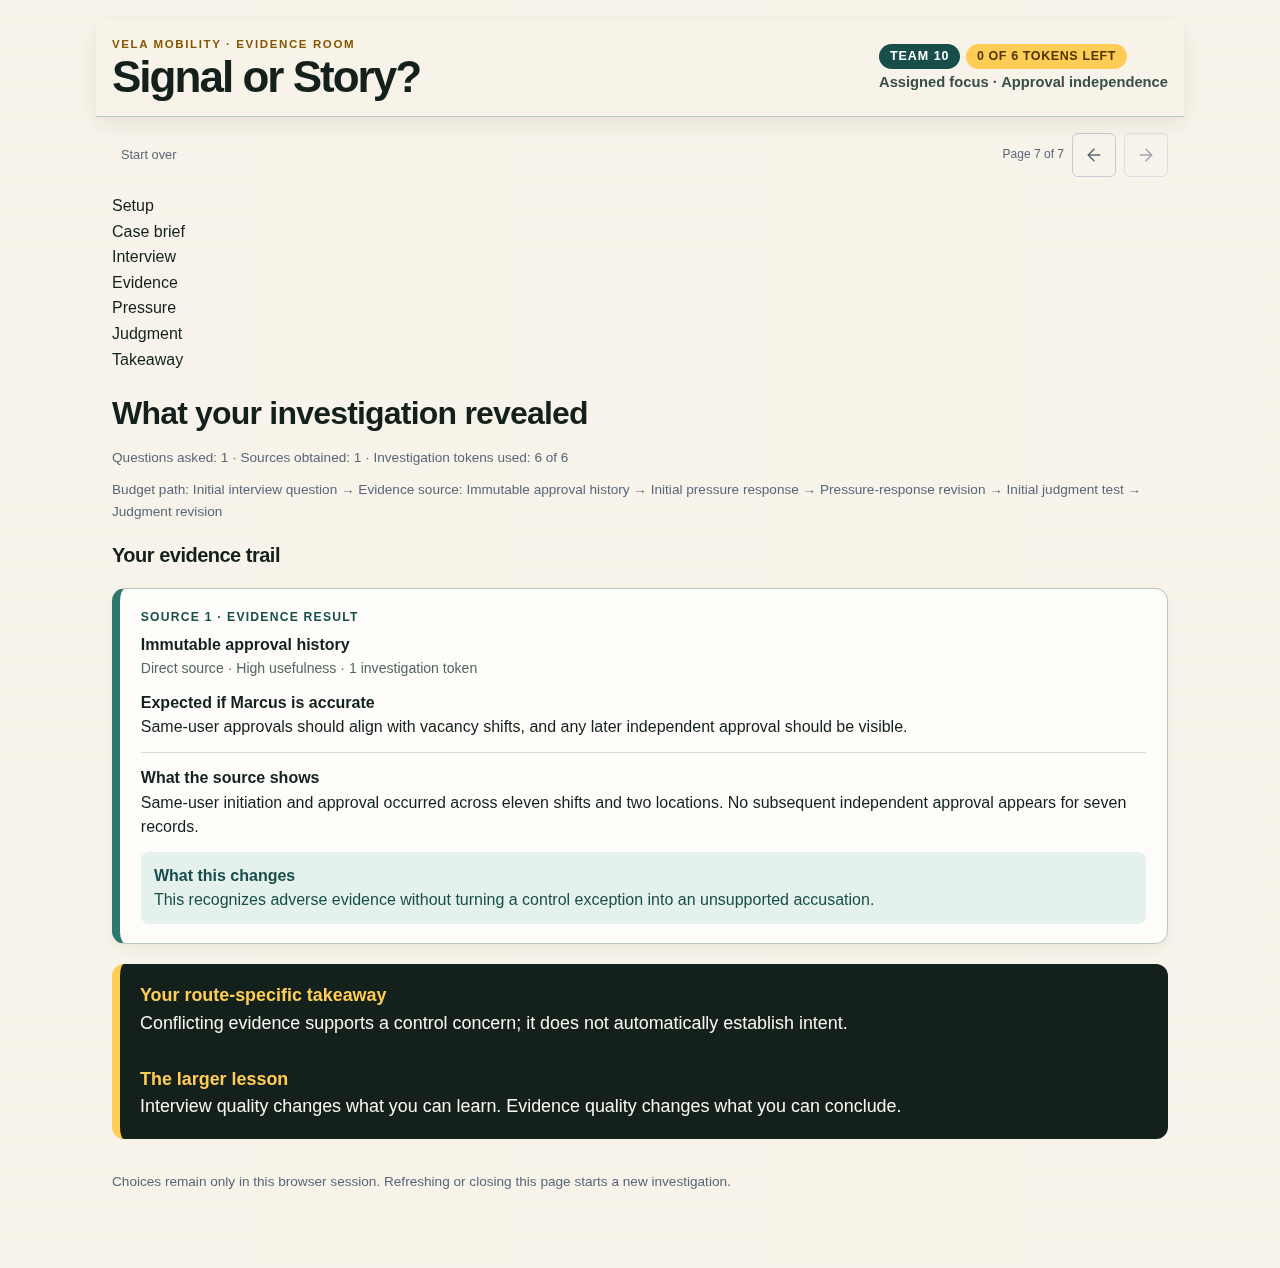
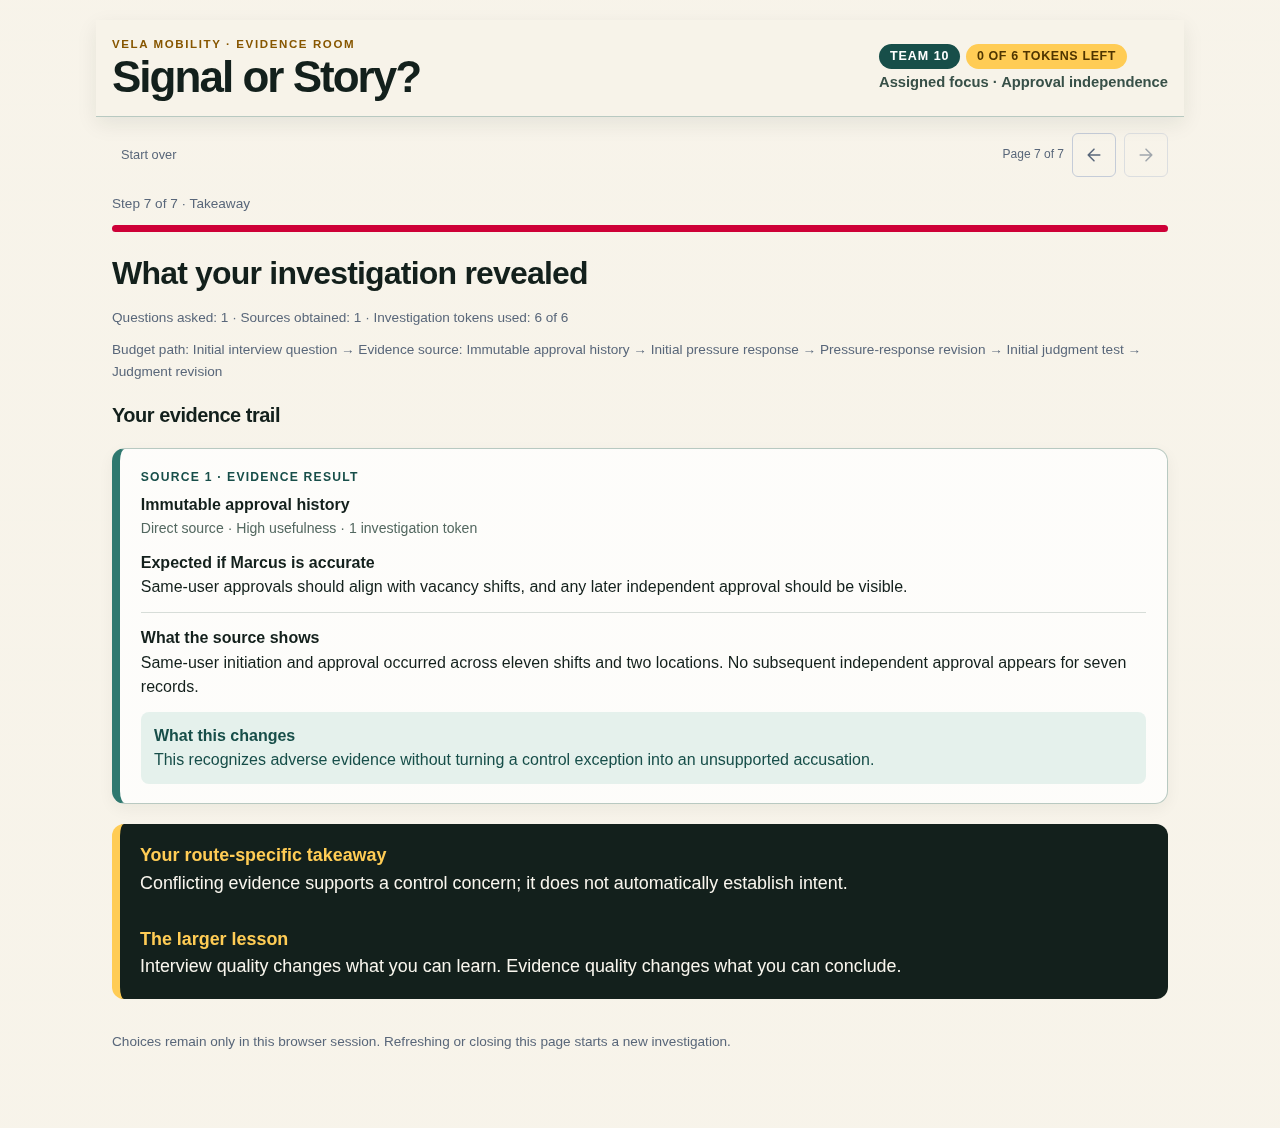
Complete native progress display and verify all twelve browser routes

diff --git a/native/eslint.config.js b/native/eslint.config.js
@@ -1,1 +1,2 @@
-export default [{files:['**/*.js','**/*.mjs'],ignores:['dist/**','vendor/**'],languageOptions:{ecmaVersion:2023,sourceType:'module'},rules:{'no-unused-vars':['error',{args:'none',varsIgnorePattern:'^_'}],'no-unreachable':'error','eqeqeq':'error'}}];
+const globals=Object.fromEntries(['document','window','location','history','crypto','structuredClone','TextEncoder','TextDecoder','CompressionStream','DecompressionStream','Blob','atob','btoa','URL','console','setTimeout','clearTimeout','Worker','self','performance','fetch','requestAnimationFrame','navigator','CustomEvent'].map(k=>[k,'readonly']));
+export default [{files:['**/*.js','**/*.mjs'],ignores:['dist/**','vendor/**'],languageOptions:{ecmaVersion:2023,sourceType:'module',globals},rules:{'no-unused-vars':['error',{args:'none',varsIgnorePattern:'^_'}],'no-undef':'error','no-unreachable':'error','eqeqeq':'error'}}];

diff --git a/native/app.js b/native/app.js
@@ -1,5 +1,5 @@
 import {DATA as C} from './content.js';
-import {Lesson,prepared,interviewEffect,conclusions} from './engine.js';
+import {Lesson,prepared,interviewEffect,impact,conclusions} from './engine.js';
 import {$,el,html,nodes,radio,action,notice,frame,escape,scroll} from './ui.js';
 const labels=['Setup','Case brief','Interview','Evidence','Pressure','Judgment','Takeaway'];let lesson=new Lesson();
 const add=(...items)=>$('lesson').append(...items),card=s=>html(s);

diff --git a/native/tests/browser.py b/native/tests/browser.py
@@ -15,7 +15,7 @@ def walk(page,origin,ready,click,passed,out):
   pick('q0',index=0);click(page,'Back');click(page,'Forward');assert page.locator('input[name=q0]:checked').count()==1;click(page,'Ask the selected question · 1 token');click(page,'Move to evidence')
   pick('e0',index=0);click(page,'Obtain selected source · 1 token');assert page.get_by_text('What the source shows',exact=True).is_visible();click(page,'Move to the pressure decision')
   pick('p0',C['PRESSURE_CHOICES']['close']['label']+' — '+C['PRESSURE_CHOICES']['close']['stance']);click(page,'Commit response · 1 token');click(page,'Revise your response once · 1 token');pick('p1',C['PRESSURE_CHOICES']['narrow']['label']+' — '+C['PRESSURE_CHOICES']['narrow']['stance']);click(page,'Commit revised response · 1 token');assert page.get_by_role('button',name='Revise your response once · 1 token',exact=True).count()==0;click(page,'Keep response and shape the conclusion')
-  pick('j0',index=1);pick('f0',index=1);click(page,'Test this judgment · 1 token');click(page,'Revise your judgment once · 1 token');pick('j1',index=0);pick('f1',index=0);click(page,'Test revised judgment · 1 token');assert page.get_by_role('button',name='Revise your judgment once · 1 token',exact=True).count()==0;click(page,'See what your investigation changed');assert page.get_by_text('0 OF 6 TOKENS LEFT',exact=True).is_visible();assert page.get_by_text('Your route-specific takeaway',exact=True).is_visible()
+  pick('j0',index=1);pick('f0',index=1);click(page,'Test this judgment · 1 token');click(page,'Revise your judgment once · 1 token');pick('j1',index=0);pick('f1',index=0);click(page,'Test revised judgment · 1 token');assert page.get_by_role('button',name='Revise your judgment once · 1 token',exact=True).count()==0;click(page,'See what your investigation changed');assert page.get_by_text('0 OF 6 TOKENS LEFT',exact=True).is_visible(),f'Team {team}: budget not visible';assert page.get_by_text('Your route-specific takeaway',exact=True).is_visible(),f'Team {team}: takeaway not visible'
   if team in [1,4,7,10]:page.screenshot(path=str(out/('team-'+str(team)+'-complete.png')),full_page=True)
   # Strictly readonly revisit and preserving the exact token budget.
   click(page,'Back');assert page.get_by_role('button',name='Test this judgment · 1 token',exact=True).count()==0;assert page.get_by_role('button',name='Start over',exact=True).is_disabled();click(page,'Forward');assert page.get_by_text('0 OF 6 TOKENS LEFT',exact=True).is_visible()

diff --git a/native/tests/browser_base.py b/native/tests/browser_base.py
@@ -26,7 +26,12 @@ def run(walk,session_only=False):
   page.on('response',lambda r:results['http_errors'].append({'url':r.url,'status':r.status}) if r.status>=400 else None)
   start=time.perf_counter();page.goto(origin);ready(page);elapsed=(time.perf_counter()-start)*1000
   page.screenshot(path=str(screens/'briefing-desktop.png'),full_page=True);assert page.get_by_role('button',name='Forward',exact=True).is_disabled();passed('Native /js/ cold initialization with forward locked')
-  walk(page,origin,ready,click,passed,screens)
+  try:
+   walk(page,origin,ready,click,passed,screens)
+  except Exception:
+   page.screenshot(path=str(screens/'failure.png'),full_page=True)
+   (screens/'failure.html').write_text(page.content())
+   raise
   ready(page);saved=page.url;before=parse_qs(urlsplit(saved).query).get('progress');current=page.locator('html').get_attribute('data-reached')
   for _ in range(int(current)):click(page,'Back')
   assert page.locator('html').get_attribute('data-view')=='0';assert page.get_by_role('button',name='Start over',exact=True).is_disabled();assert all(n.is_disabled() for n in page.locator('input,select,textarea').all());assert before==parse_qs(urlsplit(page.url).query).get('progress')

diff --git a/native/VALIDATION.md b/native/VALIDATION.md
@@ -1,0 +1,13 @@
+# Native validation — 2026-10-14
+
+Original main baseline: `023ba3fc460d7ade602fdf81f189d879b7a68fe5`. Passed: 23 original repository tests, 4 native engine/parity tests, and 22 actual Chromium walkthrough checks. ESLint (including undefined references), JavaScript syntax, build and whitespace checks passed. Source protection and contextual branding audit are committed under `review/`. The final title is `Signal or Story?`; original teaching language about testing reasoning remains intact.
+
+All twelve original team routes, interview responses, evidence, confidence boundaries and token costs are retained. Native calculations match 1,080 independent Python route/choice outcomes. The browser completed every route with deliberately weak pressure/judgment choices and both revisions, plus a two-question/two-source route with reserved mandatory actions. The original step display uses a native progress element. Zero-question evidence downgrading and token reserves are covered by engine tests.
+
+Signal remains session-only. Refreshing, opening an old or native bookmark, or closing the tab starts fresh. No local storage, URL state saving or central service is added. Back/Forward within the open session preserve drafts, histories and earned progress. Earlier pages expose no mutation actions or new evidence.
+
+Detailed browser checks and screenshots cover complete lessons, wrong answers, revisions/repeats, drafts, strictly readonly review, future rejection, reset, independent sessions, saved-link behavior, keyboard and 390px layouts. Final errors: zero browser execution errors, outside requests or HTTP asset failures. Assets were served locally under `/js/` with external requests blocked.
+
+Measured application assets: 86,662 bytes uncompressed and 27,274 bytes as the sum of separately gzip-compressed files (not promised transfer size). Local cold navigation to ready: 165.6 ms. Conditions: Chromium 151.0.7922.173, fresh context/cache, 1280×900, loopback HTTP and no simulated network latency. These measurements make no school-network-speed or classroom-capacity claim.
+
+Hosted UI testing remains blocked by the known proxy denial. Physical classroom devices/network and simultaneous capacity trials were not run. GitHub publication is verified separately after the source/static commits are pushed. All original code, dependencies, settings and workflows are unchanged; only an isolated native CI workflow is added.

diff --git a/native/README.md b/native/README.md
@@ -1,0 +1,11 @@
+# Signal or Story?
+
+The final student-facing native app is published under `/js/`. The original Streamlit implementation and existing published root remain intact. Source branch: `rollout/native-browser`; static branch: `stlite-browser`. Native publication changes only `/js/`, without changing Pages settings or adding any storage service.
+
+All twelve original team routes, interview responses, evidence, confidence boundaries and token costs are retained. Native calculations match 1,080 independent Python route/choice outcomes. The browser completed every route with deliberately weak pressure/judgment choices and both revisions, plus a two-question/two-source route with reserved mandatory actions. The original step display uses a native progress element. Zero-question evidence downgrading and token reserves are covered by engine tests.
+
+Signal remains session-only. Refreshing, opening an old or native bookmark, or closing the tab starts fresh. No local storage, URL state saving or central service is added. Back/Forward within the open session preserve drafts, histories and earned progress. Earlier pages expose no mutation actions or new evidence.
+
+Build with `python native/build.py`. Export original content with the repository's prepared interpreter using `python native/export.py`; Python is build/testing tooling only and is never loaded in the delivered app. Validate with the original repository suite, `node --test native/tests/*.test.mjs`, ESLint, and `python native/tests/browser.py` after building. See [VALIDATION.md](VALIDATION.md), [browser results](review/browser-results.json) and screenshots in `review/`.
+
+The accepted Receivables reference is `a9dd736614db779b75389222ed8c251dc4d8db8f`. App-specific teaching changes were not copied.
